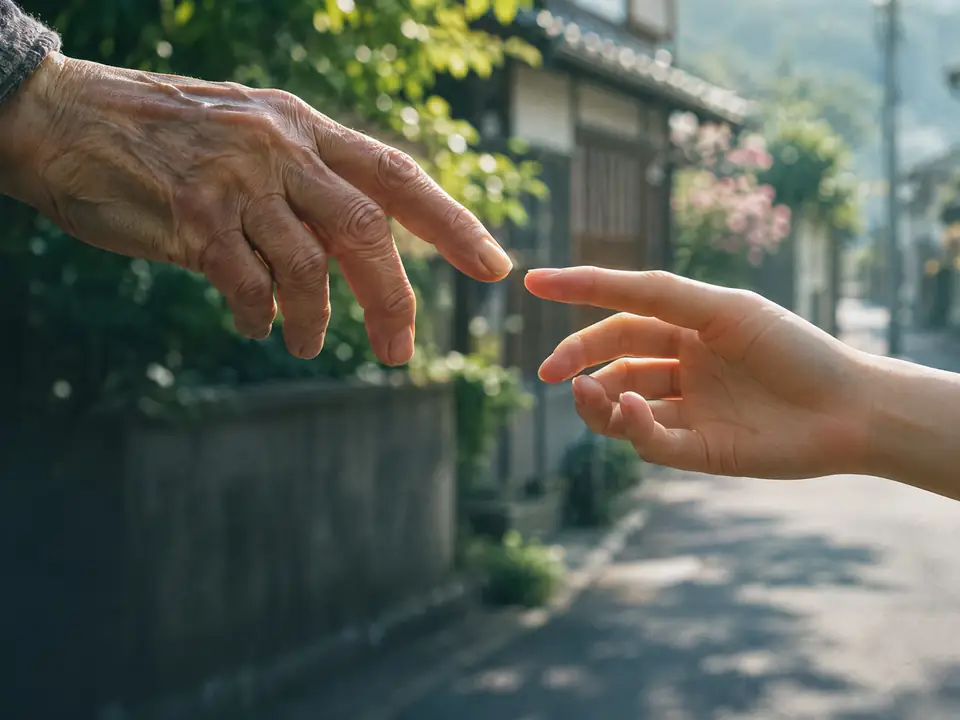
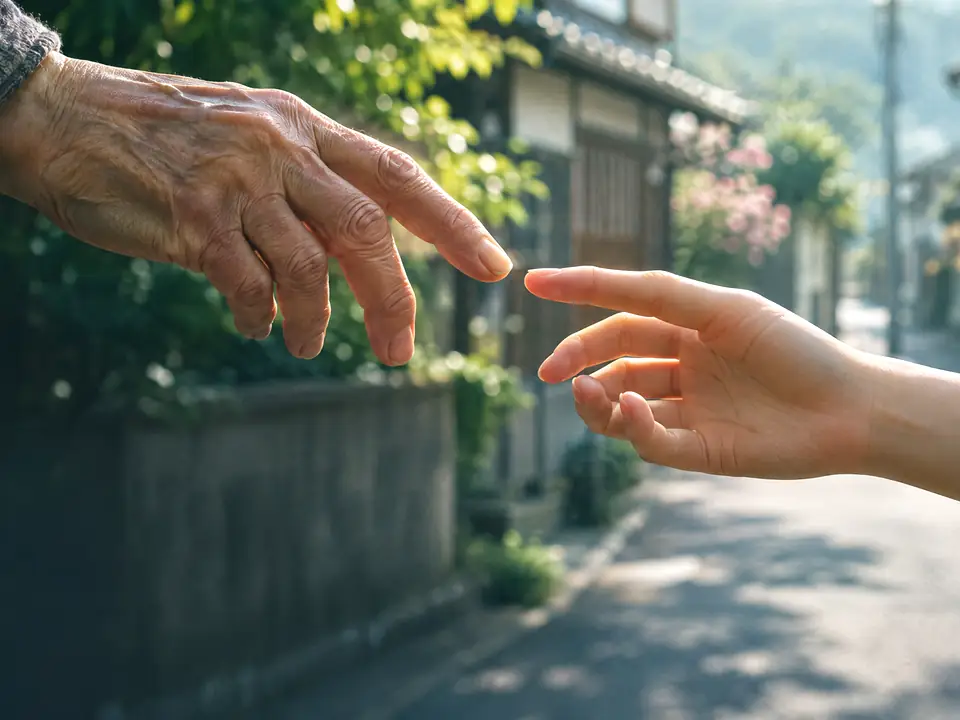
スマホのトップを明るくする（明るい地に濃い文字、写真は検索欄の下に角丸で）
Claude-Session: https://claude.ai/code/session_01NypjdT27y9Cb5JDpm21z9w

diff --git a/site/assets/site.css b/site/assets/site.css
@@ -727,21 +727,34 @@ ul.plain { margin: 0; padding-left: 1.2em; display: grid; gap: 4px; }
 .gh-around table.info th { white-space: nowrap; }
 .gh-around table.info td b { font-weight: 700; }
 
-/* ---- トップの帯：写真（手と手）。写真は生成画像なので「イメージ」と小さく書く ---- */
-.band.photo { position: relative; background: var(--ink) url(../img/hero-hands-sp.webp) center bottom / 100% auto no-repeat; }
-.band.photo::before { content: ""; position: absolute; inset: 0; background: linear-gradient(180deg, var(--ink) 0%, var(--ink) 48%, rgb(12 71 70 / .55) 64%, rgb(12 71 70 / 0) 82%); pointer-events: none; }
+/* ---- トップの帯：写真（手と手）。写真は生成画像なので「イメージ」と小さく書く ----
+   スマホ：明るい地に濃い文字、写真は検索欄の下に角丸で置く（暗い帯だと怖く見えるため）
+   パソコン：写真を帯いっぱいに敷き、左を少し暗くして白い文字 */
+.band.photo { position: relative; background: #f5f2ec; color: var(--fg); }
+.band.photo a { color: var(--fg); }
+.band.photo .eyebrow { color: var(--accent); }
+.band.photo .hero .lede { color: #3b4846; }
+.band.photo .search label { color: var(--fg); }
+.band.photo .search .status { color: var(--muted); }
+.band.photo .search .field { border-color: var(--line); box-shadow: 0 6px 20px rgb(12 71 70 / .1); }
+.band.photo .search .field:focus-within { border-color: var(--brand); }
 .band.photo .hero { position: relative; }
-.band.photo .hero.split .container { padding-bottom: min(70vw, 420px); }
+.band.photo .hero.split .container::after { content: ""; display: block; aspect-ratio: 4 / 3; border-radius: 18px; background: url(../img/hero-hands-sp.webp) center / cover no-repeat; box-shadow: 0 10px 30px rgb(12 71 70 / .15); }
 .band.photo .hero-copy h1 { font-family: "Noto Sans JP", var(--f-display); letter-spacing: 0; }
-.band.photo .hero .lede { color: var(--on-ink); opacity: .9; }
-.photo-note { position: absolute; right: 12px; bottom: 76px; font-size: 10px; color: rgb(255 255 255 / .85); letter-spacing: .05em; text-shadow: 0 1px 3px rgb(0 0 0 / .6); }
+.photo-note { position: absolute; right: 28px; bottom: 106px; font-size: 10px; color: #fff; letter-spacing: .05em; text-shadow: 0 1px 3px rgb(0 0 0 / .6); }
 @media (min-width: 900px) {
-  .band.photo { background: #1d2a26 url(../img/hero-hands.webp) center / cover no-repeat; }
-  .band.photo::before { background: linear-gradient(90deg, rgb(0 0 0 / .55), rgb(0 0 0 / .1) 60%); }
+  .band.photo { background: #1d2a26 url(../img/hero-hands.webp) center / cover no-repeat; color: var(--on-ink); }
+  .band.photo::before { content: ""; position: absolute; inset: 0; background: linear-gradient(90deg, rgb(0 0 0 / .55), rgb(0 0 0 / .1) 60%); pointer-events: none; }
+  .band.photo a, .band.photo .search label { color: var(--on-ink); }
+  .band.photo .eyebrow { color: var(--accent-on-ink); }
+  .band.photo .hero .lede { color: var(--on-ink); opacity: .9; }
+  .band.photo .search .status { color: var(--on-ink-muted); }
+  .band.photo .search .field { border-color: transparent; box-shadow: 0 8px 30px rgb(0 0 0 / .25); }
   .band.photo .hero.split .container { grid-template-columns: minmax(0, 1fr); min-height: 600px; padding-bottom: 140px; }
+  .band.photo .hero.split .container::after { display: none; }
   .band.photo .hero-copy { max-width: 560px; }
   .band.photo .hero-copy h1 { font-size: 64px; line-height: 1.22; }
-  .photo-note { right: 20px; bottom: 92px; }
+  .photo-note { right: 20px; bottom: 92px; color: rgb(255 255 255 / .85); }
 }
 .top-map { background: var(--surface); border: 1px solid var(--line); border-radius: var(--radius); padding: 16px; display: grid; gap: 12px; margin-bottom: 18px; box-shadow: var(--shadow); }
 .top-map .map-h span { color: var(--muted); }
